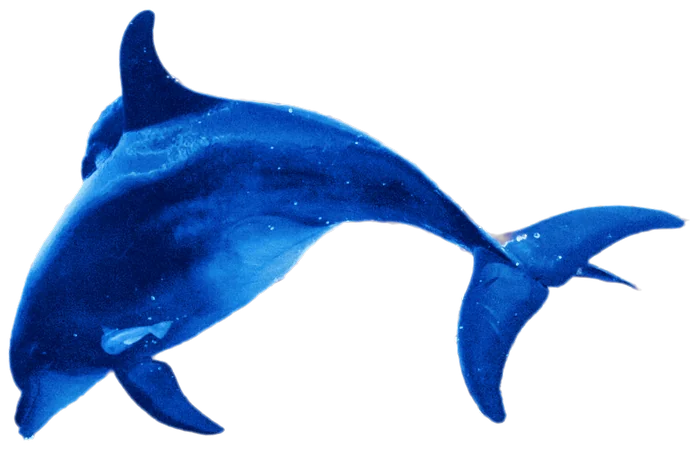
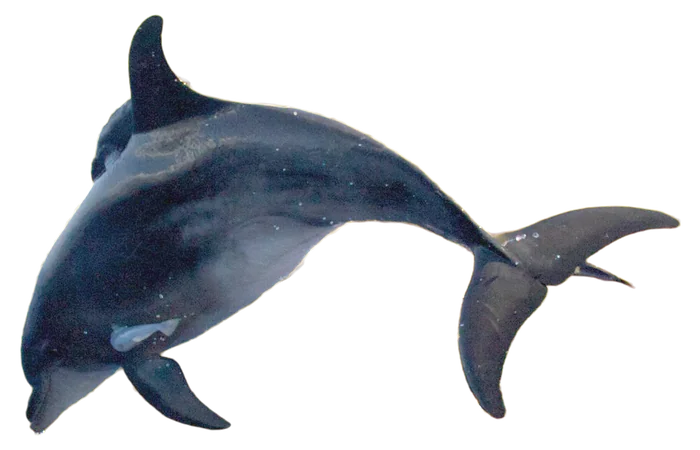
feat: photo monitor with synced water splash, natural dolphin, cleaner scenery
Monitor is a real LCD photo recoloured to the site palette with a landscape
photo on screen; a keyed wave-spray photo erupts from the screen in sync with
the fish, pinned to the left window edge. Dolphin re-cut with natural colour
and pinned right. Removed grass tufts, sand strip, scroll-linked parallax,
mouse parallax and cursor bloom (flicker). Plane enters after the gulls.

diff --git a/bucketer/dashboard/static/aero/v3.html b/bucketer/dashboard/static/aero/v3.html
@@ -1,1 +1,1 @@
-<div class="v3-sky" aria-hidden="true"><i class="v3-shift"></i><div class="v3-rayswrap"><i class="v3-ray" style="--r:14deg;--w:46px;--o:0.34"></i><i class="v3-ray" style="--r:21deg;--w:90px;--o:0.3"></i><i class="v3-ray" style="--r:28deg;--w:36px;--o:0.42"></i><i class="v3-ray" style="--r:34deg;--w:130px;--o:0.26"></i><i class="v3-ray" style="--r:40deg;--w:52px;--o:0.38"></i><i class="v3-ray" style="--r:46deg;--w:100px;--o:0.28"></i><i class="v3-ray" style="--r:52deg;--w:40px;--o:0.34"></i><i class="v3-ray" style="--r:58deg;--w:70px;--o:0.26"></i><i class="v3-ray" style="--r:65deg;--w:34px;--o:0.3"></i><i class="v3-ray" style="--r:72deg;--w:86px;--o:0.2"></i></div><i class="v3-bk" style="--x:59%;--y:75%;--s:76px;--d:54s;--l:-32s;--c:255,244,190"></i><i class="v3-bk" style="--x:25%;--y:69%;--s:76px;--d:37s;--l:-6s;--c:210,255,200"></i><i class="v3-bk" style="--x:40%;--y:22%;--s:26px;--d:60s;--l:-40s;--c:255,255,255"></i><i class="v3-bk" style="--x:78%;--y:54%;--s:76px;--d:36s;--l:-39s;--c:255,255,255"></i><i class="v3-bk" style="--x:69%;--y:12%;--s:26px;--d:28s;--l:-12s;--c:255,244,190"></i><i class="v3-bk" style="--x:78%;--y:7%;--s:76px;--d:46s;--l:-28s;--c:255,244,190"></i><i class="v3-bk" style="--x:68%;--y:33%;--s:150px;--d:44s;--l:-31s;--c:255,255,255"></i><i class="v3-bk" style="--x:86%;--y:14%;--s:76px;--d:43s;--l:-26s;--c:255,255,255"></i><i class="v3-bk" style="--x:92%;--y:36%;--s:54px;--d:40s;--l:-32s;--c:190,240,255"></i><i class="v3-bk" style="--x:5%;--y:12%;--s:110px;--d:32s;--l:-25s;--c:255,255,255"></i><i class="v3-bk" style="--x:39%;--y:53%;--s:26px;--d:27s;--l:0s;--c:255,244,190"></i><i class="v3-bk" style="--x:28%;--y:10%;--s:76px;--d:50s;--l:-25s;--c:210,255,200"></i><i class="v3-bk" style="--x:11%;--y:76%;--s:150px;--d:38s;--l:-17s;--c:190,240,255"></i><i class="v3-bk" style="--x:13%;--y:43%;--s:54px;--d:26s;--l:-26s;--c:255,255,255"></i><i class="v3-bk" style="--x:19%;--y:35%;--s:150px;--d:32s;--l:0s;--c:255,255,255"></i><i class="v3-bk" style="--x:61%;--y:66%;--s:38px;--d:38s;--l:-28s;--c:255,244,190"></i></div><div class="v3-hillfx" aria-hidden="true"><div class="hf mid"><i class="hf-wave"></i><i class="hf-shadow s1"></i></div><div class="hf near"><i class="hf-wave w2"></i><i class="hf-shadow s2"></i></div></div><div class="v3-wx" aria-hidden="true"><div class="wx-reflect"></div><div class="wx-tile"><i></i></div><svg class="wx-wave w1" viewBox="0 0 1440 40" preserveAspectRatio="none"><path d="M0 20C90 6 180 34 270 20S450 6 540 20S720 34 810 20S990 6 1080 20S1260 34 1350 20S1440 14 1440 20L1440 40L0 40Z" fill="rgba(255,255,255,.3)"/></svg><svg class="wx-wave w2" viewBox="0 0 1440 40" preserveAspectRatio="none"><path d="M0 22C120 36 240 8 360 22S600 36 720 22S960 8 1080 22S1320 36 1440 22L1440 40L0 40Z" fill="rgba(140,235,255,.28)"/></svg><i class="wx-spec"></i><i class="wx-sand"></i><i class="wx-ring" style="--x:6%;--d:9s;--l:-1s;--w:90px"></i><i class="wx-ring" style="--x:17%;--d:12s;--l:-6s;--w:60px"></i><i class="wx-ring" style="--x:29%;--d:10s;--l:-3s;--w:120px"></i><i class="wx-ring" style="--x:44%;--d:13s;--l:-8s;--w:70px"></i><i class="wx-ring" style="--x:58%;--d:9s;--l:-5s;--w:100px"></i><i class="wx-ring" style="--x:71%;--d:12s;--l:-2s;--w:64px"></i><i class="wx-ring" style="--x:83%;--d:10s;--l:-7s;--w:110px"></i><i class="wx-ring" style="--x:94%;--d:11s;--l:-4s;--w:80px"></i><i class="wx-gl" style="--x:94%;--y:85px;--s:18px;--d:-2.6s;--t:2.8s"></i><i class="wx-gl" style="--x:54%;--y:106px;--s:10px;--d:-1.1s;--t:4.5s"></i><i class="wx-gl" style="--x:76%;--y:129px;--s:10px;--d:-0.8s;--t:3.4s"></i><i class="wx-gl" style="--x:78%;--y:199px;--s:10px;--d:-0.2s;--t:2.9s"></i><i class="wx-gl" style="--x:57%;--y:118px;--s:10px;--d:-3.1s;--t:3.3s"></i><i class="wx-gl" style="--x:38%;--y:150px;--s:10px;--d:-0.3s;--t:3.0s"></i><i class="wx-gl" style="--x:82%;--y:114px;--s:10px;--d:-2.4s;--t:3.3s"></i><i class="wx-gl" style="--x:59%;--y:84px;--s:22px;--d:-1.9s;--t:3.7s"></i><i class="wx-gl" style="--x:50%;--y:98px;--s:12px;--d:-1.2s;--t:3.1s"></i><i class="wx-gl" style="--x:79%;--y:115px;--s:12px;--d:-0.6s;--t:3.9s"></i><i class="wx-gl" style="--x:71%;--y:102px;--s:18px;--d:-3.5s;--t:3.8s"></i><i class="wx-gl" style="--x:54%;--y:64px;--s:10px;--d:-0.4s;--t:3.6s"></i><i class="wx-gl" style="--x:33%;--y:113px;--s:18px;--d:-1.0s;--t:4.2s"></i><i class="wx-gl" style="--x:77%;--y:177px;--s:14px;--d:-2.1s;--t:4.5s"></i><i class="wx-gl" style="--x:9%;--y:84px;--s:12px;--d:-1.9s;--t:3.9s"></i><i class="wx-gl" style="--x:79%;--y:70px;--s:14px;--d:-0.8s;--t:4.4s"></i><i class="wx-gl" style="--x:96%;--y:56px;--s:10px;--d:-1.1s;--t:3.5s"></i><i class="wx-gl" style="--x:8%;--y:63px;--s:12px;--d:-1.1s;--t:3.7s"></i><i class="wx-gl" style="--x:17%;--y:75px;--s:14px;--d:-0.6s;--t:3.5s"></i><i class="wx-gl" style="--x:43%;--y:185px;--s:22px;--d:-3.8s;--t:3.8s"></i><i class="wx-gl" style="--x:3%;--y:173px;--s:14px;--d:-2.8s;--t:4.5s"></i><i class="wx-gl" style="--x:3%;--y:71px;--s:18px;--d:-0.3s;--t:3.2s"></i><i class="wx-gl" style="--x:18%;--y:70px;--s:10px;--d:-1.8s;--t:3.3s"></i><i class="wx-gl" style="--x:6%;--y:85px;--s:14px;--d:-1.4s;--t:4.0s"></i><i class="wx-gl" style="--x:10%;--y:158px;--s:10px;--d:-3.5s;--t:3.7s"></i><i class="wx-gl" style="--x:80%;--y:149px;--s:18px;--d:-2.3s;--t:3.8s"></i></div><div class="v3-fg" aria-hidden="true"><i class="fg-tuft l"></i><i class="fg-tuft r"></i></div><div class="v3-mon" aria-hidden="true"><svg class="mon-body" viewBox="0 0 360 430" overflow="visible"><defs><linearGradient id="cr-shell" x1="0" y1="0" x2="0" y2="1"><stop offset="0" stop-color="#e8e6dc"/><stop offset=".5" stop-color="#d3d0c4"/><stop offset="1" stop-color="#aeab9d"/></linearGradient><linearGradient id="cr-top" x1="0" y1="0" x2="0" y2="1"><stop offset="0" stop-color="#f7f6ef"/><stop offset="1" stop-color="#cdcabd"/></linearGradient><linearGradient id="cr-inner" x1="0" y1="0" x2="1" y2="1"><stop offset="0" stop-color="#4f4d46"/><stop offset=".5" stop-color="#85837a"/><stop offset="1" stop-color="#c3c0b4"/></linearGradient><linearGradient id="cr-sky" x1="0" y1="0" x2="0" y2="1"><stop offset="0" stop-color="#0a5fc4"/><stop offset=".55" stop-color="#58b6f0"/><stop offset="1" stop-color="#d4f0ff"/></linearGradient><radialGradient id="cr-sun" cx=".2" cy=".16" r=".6"><stop offset="0" stop-color="#fff"/><stop offset=".3" stop-color="#fff6c0" stop-opacity=".7"/><stop offset="1" stop-color="#fff" stop-opacity="0"/></radialGradient><radialGradient id="cr-vig" cx=".5" cy=".5" r=".78"><stop offset=".55" stop-color="#001030" stop-opacity="0"/><stop offset="1" stop-color="#001030" stop-opacity=".6"/></radialGradient><linearGradient id="cr-glare" x1="0" y1="0" x2="1" y2="1"><stop offset="0" stop-color="#fff" stop-opacity=".6"/><stop offset=".5" stop-color="#fff" stop-opacity=".06"/><stop offset="1" stop-color="#fff" stop-opacity="0"/></linearGradient><linearGradient id="cr-ped" x1="0" y1="0" x2="0" y2="1"><stop offset="0" stop-color="#d6d3c7"/><stop offset="1" stop-color="#8f8c80"/></linearGradient><linearGradient id="cr-neck" x1="0" y1="0" x2="1" y2="0"><stop offset="0" stop-color="#8a877b"/><stop offset=".4" stop-color="#d9d6ca"/><stop offset="1" stop-color="#7c796d"/></linearGradient><radialGradient id="cr-btn" cx=".4" cy=".3" r=".8"><stop offset="0" stop-color="#f6f5ee"/><stop offset="1" stop-color="#a7a497"/></radialGradient><pattern id="cr-scan" width="4" height="3" patternUnits="userSpaceOnUse"><rect width="4" height="1" fill="#000" opacity=".1"/></pattern><filter id="cr-bevel" x="-4%" y="-4%" width="108%" height="108%"><feGaussianBlur in="SourceAlpha" stdDeviation="3.5" result="b"/><feSpecularLighting in="b" surfaceScale="5" specularConstant=".8" specularExponent="24" lighting-color="#fff" result="s"><feDistantLight azimuth="235" elevation="52"/></feSpecularLighting><feComposite in="s" in2="SourceAlpha" operator="in" result="s2"/><feComposite in="SourceGraphic" in2="s2" operator="arithmetic" k1="0" k2="1" k3=".85" k4="0"/></filter><filter id="cr-grain" x="0" y="0" width="100%" height="100%"><feTurbulence type="fractalNoise" baseFrequency=".85" numOctaves="2" seed="5"/><feColorMatrix values="0 0 0 0 0  0 0 0 0 0  0 0 0 0 0  0 0 0 .09 0"/></filter><filter id="cr-blur"><feGaussianBlur stdDeviation="3"/></filter><clipPath id="cr-scr"><rect x="50" y="80" width="260" height="200" rx="28"/></clipPath></defs><ellipse cx="180" cy="424" rx="150" ry="13" fill="#032f5c" opacity=".3" filter="url(#cr-blur)"/><path d="M154 330h52l12 66h-76z" fill="url(#cr-neck)" stroke="#6d6a5e" stroke-width="1"/><ellipse cx="180" cy="408" rx="112" ry="16" fill="#6d6a5e"/><ellipse cx="180" cy="403" rx="112" ry="15" fill="url(#cr-ped)" stroke="#6d6a5e"/><ellipse cx="180" cy="399" rx="86" ry="8" fill="#fff" opacity=".45"/><path d="M58 26h244c14 0 26 10 32 24l12 14H14l12-14c6-14 18-24 32-24z" fill="url(#cr-top)" stroke="#8f8c80" stroke-width="1.2"/><g stroke="#7b786c" stroke-width="2.4" stroke-linecap="round" opacity=".55"><path d="M110 40h40M160 40h40M210 40h40"/><path d="M100 50h60M170 50h60M240 50h20"/></g><rect x="14" y="62" width="332" height="270" rx="26" fill="url(#cr-shell)" stroke="#8f8c80" stroke-width="1.4" filter="url(#cr-bevel)"/><rect x="14" y="62" width="332" height="270" rx="26" fill="#000" filter="url(#cr-grain)"/><path d="M20 64h320" stroke="#fff" stroke-opacity=".8" stroke-width="1.6"/><rect x="36" y="70" width="288" height="224" rx="36" fill="url(#cr-inner)" stroke="#4a483f" stroke-width="1.2"/><rect x="38.5" y="72.5" width="283" height="219" rx="34" fill="none" stroke="#fff" stroke-opacity=".25" stroke-width="1"/><g clip-path="url(#cr-scr)"><rect x="50" y="80" width="260" height="200" fill="url(#cr-sky)"/><rect x="50" y="80" width="260" height="200" fill="url(#cr-sun)"/><g fill="#fff" opacity=".85" filter="url(#cr-blur)"><ellipse cx="230" cy="130" rx="52" ry="14"/><ellipse cx="258" cy="122" rx="30" ry="12"/><ellipse cx="120" cy="108" rx="40" ry="10"/></g><path d="M50 236C100 196 170 214 230 192C262 180 292 190 310 198V280H50z" fill="#4cc31c"/><path d="M50 258C110 228 190 244 250 226C280 218 298 224 310 228V280H50z" fill="#2b9a12"/><path d="M50 236C100 196 170 214 230 192C262 180 292 190 310 198" fill="none" stroke="#d8ff8a" stroke-width="1.6" opacity=".8"/><rect x="50" y="80" width="260" height="200" fill="url(#cr-scan)"/><rect x="50" y="80" width="260" height="200" fill="url(#cr-vig)"/><path d="M56 90C100 82 170 84 200 86C150 110 100 150 56 200z" fill="url(#cr-glare)"/></g><rect x="50" y="80" width="260" height="200" rx="28" fill="none" stroke="#0a1b33" stroke-opacity=".7" stroke-width="2"/><g stroke="#6a675b" stroke-width="2" stroke-linecap="round" opacity=".7"><path d="M52 306h30M52 312h30M52 318h30"/></g><g><rect x="156" y="304" width="22" height="9" rx="4.5" fill="url(#cr-btn)" stroke="#7b786c" stroke-width=".8"/><rect x="184" y="304" width="22" height="9" rx="4.5" fill="url(#cr-btn)" stroke="#7b786c" stroke-width=".8"/><rect x="212" y="304" width="22" height="9" rx="4.5" fill="url(#cr-btn)" stroke="#7b786c" stroke-width=".8"/><rect x="240" y="304" width="22" height="9" rx="4.5" fill="url(#cr-btn)" stroke="#7b786c" stroke-width=".8"/></g><circle cx="296" cy="309" r="9" fill="url(#cr-btn)" stroke="#6a675b" stroke-width="1"/><circle cx="296" cy="309" r="4.5" fill="none" stroke="#55524a" stroke-width="1.2"/><path d="M296 303v5" stroke="#55524a" stroke-width="1.2"/><circle cx="276" cy="309" r="3" fill="#44e04a" stroke="#1a6a1c" stroke-width=".7"/><circle cx="275.2" cy="308.2" r="1" fill="#fff"/><ellipse cx="108" cy="309" rx="22" ry="4.5" fill="none" stroke="#8f8c80" stroke-width="1"/></svg><i class="mon-splash"></i><i class="mon-fish"><b class="aero-img aero-gold"></b></i><i class="mon-drops"></i><i class="mon-drops b"></i><i class="mon-lip"></i></div>
+<div class="v3-sky" aria-hidden="true"><div class="v3-rayswrap"><i class="v3-ray" style="--r:14deg;--w:46px;--o:0.34"></i><i class="v3-ray" style="--r:21deg;--w:90px;--o:0.3"></i><i class="v3-ray" style="--r:28deg;--w:36px;--o:0.42"></i><i class="v3-ray" style="--r:34deg;--w:130px;--o:0.26"></i><i class="v3-ray" style="--r:40deg;--w:52px;--o:0.38"></i><i class="v3-ray" style="--r:46deg;--w:100px;--o:0.28"></i><i class="v3-ray" style="--r:52deg;--w:40px;--o:0.34"></i><i class="v3-ray" style="--r:58deg;--w:70px;--o:0.26"></i><i class="v3-ray" style="--r:65deg;--w:34px;--o:0.3"></i><i class="v3-ray" style="--r:72deg;--w:86px;--o:0.2"></i></div><i class="v3-bk" style="--x:59%;--y:75%;--s:76px;--d:54s;--l:-32s;--c:255,244,190"></i><i class="v3-bk" style="--x:25%;--y:69%;--s:76px;--d:37s;--l:-6s;--c:210,255,200"></i><i class="v3-bk" style="--x:40%;--y:22%;--s:26px;--d:60s;--l:-40s;--c:255,255,255"></i><i class="v3-bk" style="--x:78%;--y:54%;--s:76px;--d:36s;--l:-39s;--c:255,255,255"></i><i class="v3-bk" style="--x:69%;--y:12%;--s:26px;--d:28s;--l:-12s;--c:255,244,190"></i><i class="v3-bk" style="--x:78%;--y:7%;--s:76px;--d:46s;--l:-28s;--c:255,244,190"></i><i class="v3-bk" style="--x:68%;--y:33%;--s:150px;--d:44s;--l:-31s;--c:255,255,255"></i><i class="v3-bk" style="--x:86%;--y:14%;--s:76px;--d:43s;--l:-26s;--c:255,255,255"></i><i class="v3-bk" style="--x:92%;--y:36%;--s:54px;--d:40s;--l:-32s;--c:190,240,255"></i><i class="v3-bk" style="--x:5%;--y:12%;--s:110px;--d:32s;--l:-25s;--c:255,255,255"></i><i class="v3-bk" style="--x:39%;--y:53%;--s:26px;--d:27s;--l:0s;--c:255,244,190"></i><i class="v3-bk" style="--x:28%;--y:10%;--s:76px;--d:50s;--l:-25s;--c:210,255,200"></i><i class="v3-bk" style="--x:11%;--y:76%;--s:150px;--d:38s;--l:-17s;--c:190,240,255"></i><i class="v3-bk" style="--x:13%;--y:43%;--s:54px;--d:26s;--l:-26s;--c:255,255,255"></i><i class="v3-bk" style="--x:19%;--y:35%;--s:150px;--d:32s;--l:0s;--c:255,255,255"></i><i class="v3-bk" style="--x:61%;--y:66%;--s:38px;--d:38s;--l:-28s;--c:255,244,190"></i></div><div class="v3-hillfx" aria-hidden="true"><div class="hf mid"><i class="hf-wave"></i><i class="hf-shadow s1"></i></div><div class="hf near"><i class="hf-wave w2"></i><i class="hf-shadow s2"></i></div></div><div class="v3-wx" aria-hidden="true"><div class="wx-reflect"></div><div class="wx-tile"><i></i></div><svg class="wx-wave w1" viewBox="0 0 1440 40" preserveAspectRatio="none"><path d="M0 20C90 6 180 34 270 20S450 6 540 20S720 34 810 20S990 6 1080 20S1260 34 1350 20S1440 14 1440 20L1440 40L0 40Z" fill="rgba(255,255,255,.3)"/></svg><svg class="wx-wave w2" viewBox="0 0 1440 40" preserveAspectRatio="none"><path d="M0 22C120 36 240 8 360 22S600 36 720 22S960 8 1080 22S1320 36 1440 22L1440 40L0 40Z" fill="rgba(140,235,255,.28)"/></svg><i class="wx-spec"></i><i class="wx-ring" style="--x:6%;--d:9s;--l:-1s;--w:90px"></i><i class="wx-ring" style="--x:17%;--d:12s;--l:-6s;--w:60px"></i><i class="wx-ring" style="--x:29%;--d:10s;--l:-3s;--w:120px"></i><i class="wx-ring" style="--x:44%;--d:13s;--l:-8s;--w:70px"></i><i class="wx-ring" style="--x:58%;--d:9s;--l:-5s;--w:100px"></i><i class="wx-ring" style="--x:71%;--d:12s;--l:-2s;--w:64px"></i><i class="wx-ring" style="--x:83%;--d:10s;--l:-7s;--w:110px"></i><i class="wx-ring" style="--x:94%;--d:11s;--l:-4s;--w:80px"></i><i class="wx-gl" style="--x:94%;--y:85px;--s:18px;--d:-2.6s;--t:2.8s"></i><i class="wx-gl" style="--x:54%;--y:106px;--s:10px;--d:-1.1s;--t:4.5s"></i><i class="wx-gl" style="--x:76%;--y:129px;--s:10px;--d:-0.8s;--t:3.4s"></i><i class="wx-gl" style="--x:78%;--y:199px;--s:10px;--d:-0.2s;--t:2.9s"></i><i class="wx-gl" style="--x:57%;--y:118px;--s:10px;--d:-3.1s;--t:3.3s"></i><i class="wx-gl" style="--x:38%;--y:150px;--s:10px;--d:-0.3s;--t:3.0s"></i><i class="wx-gl" style="--x:82%;--y:114px;--s:10px;--d:-2.4s;--t:3.3s"></i><i class="wx-gl" style="--x:59%;--y:84px;--s:22px;--d:-1.9s;--t:3.7s"></i><i class="wx-gl" style="--x:50%;--y:98px;--s:12px;--d:-1.2s;--t:3.1s"></i><i class="wx-gl" style="--x:79%;--y:115px;--s:12px;--d:-0.6s;--t:3.9s"></i><i class="wx-gl" style="--x:71%;--y:102px;--s:18px;--d:-3.5s;--t:3.8s"></i><i class="wx-gl" style="--x:54%;--y:64px;--s:10px;--d:-0.4s;--t:3.6s"></i><i class="wx-gl" style="--x:33%;--y:113px;--s:18px;--d:-1.0s;--t:4.2s"></i><i class="wx-gl" style="--x:77%;--y:177px;--s:14px;--d:-2.1s;--t:4.5s"></i><i class="wx-gl" style="--x:9%;--y:84px;--s:12px;--d:-1.9s;--t:3.9s"></i><i class="wx-gl" style="--x:79%;--y:70px;--s:14px;--d:-0.8s;--t:4.4s"></i><i class="wx-gl" style="--x:96%;--y:56px;--s:10px;--d:-1.1s;--t:3.5s"></i><i class="wx-gl" style="--x:8%;--y:63px;--s:12px;--d:-1.1s;--t:3.7s"></i><i class="wx-gl" style="--x:17%;--y:75px;--s:14px;--d:-0.6s;--t:3.5s"></i><i class="wx-gl" style="--x:43%;--y:185px;--s:22px;--d:-3.8s;--t:3.8s"></i><i class="wx-gl" style="--x:3%;--y:173px;--s:14px;--d:-2.8s;--t:4.5s"></i><i class="wx-gl" style="--x:3%;--y:71px;--s:18px;--d:-0.3s;--t:3.2s"></i><i class="wx-gl" style="--x:18%;--y:70px;--s:10px;--d:-1.8s;--t:3.3s"></i><i class="wx-gl" style="--x:6%;--y:85px;--s:14px;--d:-1.4s;--t:4.0s"></i><i class="wx-gl" style="--x:10%;--y:158px;--s:10px;--d:-3.5s;--t:3.7s"></i><i class="wx-gl" style="--x:80%;--y:149px;--s:18px;--d:-2.3s;--t:3.8s"></i></div><div class="v3-mon" aria-hidden="true"><i class="mon-img"></i><i class="mon-fish"><b class="aero-img aero-gold"></b></i><i class="mon-water"></i></div>

diff --git a/bucketer/dashboard/static/aero/v3.css b/bucketer/dashboard/static/aero/v3.css
@@ -1,15 +1,14 @@
-/* lane: v3 (loaded last). Owns the audit pass: one sky gradient, soft rolling rays, pastel flares, bokeh, continuous cloud/plane drift, scroll sky shift,
+/* lane: v3 (loaded last). Owns the audit pass: one sky gradient, soft rolling rays, pastel flares, bokeh, continuous cloud/plane drift,
    living hills (sway, light wave, cloud shadows), hill reflection + wave layers + seabed in the water, thin-film bubbles, foreground tufts/fronds,
    the monitor with water splashing out of its screen, and the single glass recipe + Aero chrome for panels, controls, tables and charts. */
 :root{--cyan:#00b4e6;--cobalt:#0a6fd0;--lime:#49c61c;--sun:#ffd93a;--ink:#0a2a4a;--fg:#0a2a4a;--muted:#1b4268;
 --glass-blur:blur(16px) saturate(1.4) brightness(1.1);--glass-tint:rgba(236,248,255,.46);--aero-grade:saturate(1.1) contrast(1.04)}
 html{background:linear-gradient(165deg,#1a5fc4 0,#3b93e6 24%,#7cc4f2 50%,#bfe5f8 76%,#dff4fc 100%) fixed}
 
-/* ===== sky: rays, bokeh, scroll shift ===== */
-.v3-sky,.v3-hillfx,.v3-wx,.v3-fg,.v3-mon{position:fixed;pointer-events:none}
+/* ===== sky: rays, bokeh ===== */
+.v3-sky,.v3-hillfx,.v3-wx,.v3-mon{position:fixed;pointer-events:none}
 .v3-sky{inset:0;z-index:0;overflow:hidden}
 .v3-sky i,.v3-sky div{position:absolute;display:block;font-style:normal}
-.v3-shift{inset:0;opacity:0;background:linear-gradient(180deg,rgba(8,70,170,0) 0,rgba(8,70,170,.4) 100%)}
 .v3-rayswrap{left:6vw;top:4vh;width:0;height:0;animation:v3-raysway 46s ease-in-out infinite alternate;mix-blend-mode:screen}
 .v3-ray{left:0;top:0;width:150vmax;height:var(--w);margin-top:calc(var(--w) / -2);transform-origin:0 50%;rotate:var(--r);opacity:var(--o);filter:blur(7px);clip-path:polygon(0 42%,100% 0,100% 100%,0 58%);background:linear-gradient(90deg,rgba(255,248,205,.85),rgba(255,246,190,.22) 42%,transparent 78%)}
 @keyframes v3-raysway{from{rotate:-3deg}to{rotate:3deg}}
@@ -30,8 +29,8 @@ html{background:linear-gradient(165deg,#1a5fc4 0,#3b93e6 24%,#7cc4f2 50%,#bfe5f8
 .as-cl.cl3{filter:blur(.8px)}.as-cl.cl2a{filter:blur(1.2px)}
 
 /* ===== plane: big, climbing and growing as it passes, soft contrail, behind the near clouds ===== */
-.aero-sky .as-plane-a{top:3vh;width:clamp(260px,22vw,420px);animation:v3-plane-x 110s linear -14s infinite}
-.aero-sky .as-plane-b{animation:v3-plane-y 110s ease-in-out -14s infinite}
+.aero-sky .as-plane-a{top:3vh;width:clamp(260px,22vw,420px);animation:v3-plane-x 150s linear 35s infinite backwards}
+.aero-sky .as-plane-b{animation:v3-plane-y 150s ease-in-out 35s infinite backwards}
 .aero-sky .as-plane{animation:v3-bank 7s ease-in-out infinite alternate}
 .aero-sky .as-plane::after{content:"";position:absolute;left:34%;top:30%;width:22px;height:22px;translate:-50% -50%;background:#fff;clip-path:polygon(50% 0,56% 44%,100% 50%,56% 56%,50% 100%,44% 56%,0 50%,44% 44%);filter:drop-shadow(0 0 5px #fff);animation:as-twinkle 3.2s ease-in-out infinite}
 .aero-sky .as-trail{width:min(62vw,900px);height:7px;opacity:.85}
@@ -50,11 +49,6 @@ html{background:linear-gradient(165deg,#1a5fc4 0,#3b93e6 24%,#7cc4f2 50%,#bfe5f8
 /* haze only touches the very base so the towers stay solid and clearly visible */
 .hs-skyline::after{background:linear-gradient(0deg,rgba(205,238,252,.32),rgba(205,238,252,.08) 22%,rgba(205,238,252,0) 40%)}
 .hs-skyline::before{content:"";position:absolute;left:-2%;right:-2%;bottom:-2px;height:7%;z-index:1;background:radial-gradient(circle at 50% 100%,#2c9a26 0 58%,transparent 60%) 0 100%/31px 100% repeat-x,radial-gradient(circle at 50% 100%,#1f7e1e 0 56%,transparent 58%) 15px 100%/37px 78% repeat-x}
-.hs-sk{transform:translate(calc(var(--mx,0) * -6px),calc(var(--my,0) * -3px))}
-.hs-far{transform:translate(calc(var(--mx,0) * -4px),calc(var(--my,0) * -2px))}
-.hs-mid{transform:translate(calc(var(--mx,0) * -9px),calc(var(--my,0) * -4px))}
-.hs-near{transform:translate(calc(var(--mx,0) * -16px),calc(var(--my,0) * -6px))}
-.as-parfar{transform:translate(calc(var(--mx,0) * -3px),0)}.as-parnear{transform:translate(calc(var(--mx,0) * -7px),0)}
 .hs-globe{width:clamp(230px,19vw,360px);top:9vh}
 .hs-globe::before{content:"";position:absolute;inset:-9%;border-radius:50%;background:radial-gradient(circle,transparent 56%,rgba(130,225,255,.5) 66%,rgba(130,225,255,.12) 74%,transparent 80%)}
 .hs-gloss{background:radial-gradient(ellipse 42% 22% at 34% 16%,rgba(255,255,255,.9),rgba(255,255,255,0) 100%),radial-gradient(ellipse 60% 30% at 52% 96%,rgba(150,240,255,.55),transparent 70%),radial-gradient(circle,transparent 58%,rgba(160,230,255,.3) 86%,rgba(255,255,255,.65) 100%)}
@@ -82,7 +76,6 @@ html{background:linear-gradient(165deg,#1a5fc4 0,#3b93e6 24%,#7cc4f2 50%,#bfe5f8
 .wx-wave.w2{top:30px;animation:v3-wavex 24s linear infinite reverse}
 @keyframes v3-wavex{to{translate:-45% 0}}
 .wx-spec{left:0;right:0;top:32px;height:5px;background:linear-gradient(90deg,transparent,rgba(255,255,255,.95) 18%,rgba(255,255,255,.55) 50%,rgba(255,255,255,.95) 82%,transparent);filter:blur(.8px) drop-shadow(0 0 5px #fff)}
-.wx-sand{left:0;right:0;bottom:var(--dock);height:56px;background:radial-gradient(circle at 12% 70%,rgba(255,244,220,.75) 0 2px,transparent 3px) 0 0/73px 30px,radial-gradient(circle at 60% 40%,rgba(120,90,50,.45) 0 2.5px,transparent 3.5px) 0 0/97px 36px,linear-gradient(0deg,rgba(234,208,150,.82),rgba(214,190,130,.5) 55%,transparent);-webkit-mask-image:linear-gradient(0deg,#000 40%,transparent);mask-image:linear-gradient(0deg,#000 40%,transparent)}
 .wx-ring{left:var(--x);top:30px;width:var(--w);height:calc(var(--w) * .22);translate:-50% 0;border-radius:50%;border:2px solid rgba(255,255,255,.85);opacity:0;animation:v3-ring var(--d) ease-out var(--l) infinite}
 @keyframes v3-ring{0%{scale:.1;opacity:0}12%{opacity:.85}100%{scale:1.7;opacity:0}}
 .wx-gl{left:var(--x);top:calc(30px + var(--y));width:var(--s);height:var(--s);translate:-50% -50%;background:#fff;clip-path:polygon(50% 0,56% 44%,100% 50%,56% 56%,50% 100%,44% 56%,0 50%,44% 44%);filter:drop-shadow(0 0 4px #fff);opacity:.3;animation:as-twinkle var(--t) ease-in-out var(--d) infinite}
@@ -97,31 +90,17 @@ html{background:linear-gradient(165deg,#1a5fc4 0,#3b93e6 24%,#7cc4f2 50%,#bfe5f8
 .aero-bub.irid::before{opacity:.85}
 .aero-bub.xl{filter:blur(1.2px)}
 
-/* ===== foreground framing: grass tufts at the banks ===== */
-.v3-fg{inset:0;z-index:9;overflow:hidden}
-.v3-fg .fg-tuft{position:absolute;display:block;background-repeat:no-repeat;background-position:center bottom;background-size:contain}
-.fg-tuft{bottom:calc(var(--aw-h) - 52px);width:clamp(240px,22vw,420px);aspect-ratio:900/500;background-image:url(img/aero_grass_tuft.webp);transform-origin:50% 100%;animation:v3-tuft 5s ease-in-out infinite alternate}
-.fg-tuft.l{left:-40px}.fg-tuft.r{right:-60px;scale:-1 1;animation-delay:-2.2s}
-@keyframes v3-tuft{from{transform:skewX(-1.8deg)}to{transform:skewX(1.8deg)}}
 
-/* ===== early-2000s CRT with water erupting out of its screen (splash sprites sit over the glass, the betta swims inside the water) ===== */
-.v3-mon{left:max(6px,calc(50% - 790px));bottom:calc(var(--aw-h) - 46px);width:clamp(230px,17vw,300px);aspect-ratio:360/430;z-index:9;filter:drop-shadow(0 12px 14px rgba(0,50,100,.35));--i-splash:url(img/aero_splash.webp);--i-lip:url(img/aero_splash_lip.webp);--i-sdrops:url(img/aero_splash_drops.webp)}
-.v3-mon .mon-body{position:absolute;inset:0;width:100%;height:100%;display:block}
+/* ===== monitor: a real photo of an LCD (Dell, public domain) recoloured to the site's blue palette, with a real landscape photo (greens pushed to lime) warped onto its screen, and a real wave-spray photo keyed to white water erupting from the screen centre; the betta swims between the two layers ===== */
+.v3-mon{--mw:clamp(340px,26vw,460px);left:calc(var(--mw) * -.14);bottom:calc(var(--aw-h) - 40px);width:var(--mw);aspect-ratio:780/795;z-index:9;filter:drop-shadow(0 14px 14px rgba(0,50,100,.35));--i-mon:url(img/aero_monitor.webp);--i-monw:url(img/aero_monitor_water.webp)}
 .v3-mon i{position:absolute;display:block;font-style:normal;background-repeat:no-repeat}
-.mon-splash{left:-9%;width:118%;bottom:44%;aspect-ratio:900/1000;background:var(--i-splash) center bottom/100% 100%;transform-origin:50% 100%;filter:drop-shadow(0 0 1.2px rgba(0,120,200,.9)) drop-shadow(0 2px 3px rgba(0,90,160,.3)) saturate(1.15) brightness(1.06);animation:mon-pulse 3.6s ease-in-out infinite alternate}
-/* water body: cyan tint masked by the sprite's own alpha, so the thin translucent sheets read as a coloured liquid and the splash stays solid against a bright sky */
-.mon-splash::before,.mon-lip::before{content:"";position:absolute;inset:0;background:linear-gradient(180deg,rgba(190,246,255,.4),rgba(40,190,240,.42));-webkit-mask:var(--i-splash) center bottom/100% 100% no-repeat;mask:var(--i-splash) center bottom/100% 100% no-repeat}
-.mon-lip::before{-webkit-mask-image:var(--i-lip);mask-image:var(--i-lip);-webkit-mask-position:center top;mask-position:center top;background:linear-gradient(180deg,rgba(200,248,255,.35),rgba(40,185,240,.45))}
-@keyframes mon-pulse{from{transform:scale(.98,.95) skewX(-.8deg)}to{transform:scale(1.02,1.04) skewX(.8deg)}}
-.mon-lip{left:-6%;width:112%;top:63%;aspect-ratio:900/260;background:var(--i-lip) center top/100% 100%;filter:drop-shadow(0 0 1.2px rgba(0,120,200,.9)) drop-shadow(0 3px 3px rgba(0,90,160,.35)) saturate(1.1);-webkit-mask-image:linear-gradient(180deg,transparent 0,#000 34%);mask-image:linear-gradient(180deg,transparent 0,#000 34%);animation:mon-lip 4.4s ease-in-out infinite alternate}
-@keyframes mon-lip{from{transform:translateY(0) scaleY(1)}to{transform:translateY(2px) scaleY(1.04)}}
-.mon-drops{filter:drop-shadow(0 0 1px rgba(0,95,180,.9)) saturate(1.5);left:-14%;width:128%;bottom:46%;aspect-ratio:1;background:var(--i-sdrops) center/100% 100%;opacity:0;animation:mon-spray 3.2s ease-in infinite}
-.mon-drops.b{animation-delay:-1.6s;scale:-1 1;width:112%;left:-6%}
-@keyframes mon-spray{0%{transform:translateY(34%) scale(.82);opacity:0}18%{opacity:.95}55%{transform:translateY(-4%) scale(1)}100%{transform:translateY(22%) scale(1.04);opacity:0}}
-.mon-fish{left:36%;width:34%;aspect-ratio:700/521;bottom:50%;animation:mon-fish 9s ease-in-out infinite}
-.mon-fish .aero-img{filter:saturate(1.6) brightness(1.3) contrast(1.05) drop-shadow(0 0 3px rgba(190,245,255,.9));animation:mon-wag .45s ease-in-out infinite alternate;transform-origin:70% 50%}
+.mon-img{inset:0;background:var(--i-mon) center/100% 100%}
+.mon-water{inset:0;background:var(--i-monw) center/100% 100%;transform-origin:43% 78%;opacity:0;animation:mon-water 9s ease-in-out infinite}
+@keyframes mon-water{0%,21%{opacity:0;transform:scale(.5,.3)}33%{opacity:1;transform:scale(1.03,1.03)}70%{opacity:1;transform:scale(1,1)}88%,100%{opacity:0;transform:scale(.9,.75)}}
+.mon-fish{left:34%;width:19%;aspect-ratio:700/521;bottom:27%;animation:mon-fish 9s ease-in-out infinite}
+.mon-fish .aero-img{filter:saturate(1.5) brightness(1.2) drop-shadow(0 0 3px rgba(190,245,255,.9));animation:mon-wag .45s ease-in-out infinite alternate;transform-origin:70% 50%}
 @keyframes mon-wag{from{transform:skewX(-9deg)}to{transform:skewX(9deg)}}
-@keyframes mon-fish{0%{translate:-20% 60%;rotate:35deg;opacity:0;scale:.6}12%{opacity:1}34%{translate:-8% -90%;rotate:-22deg;scale:1}55%{translate:40% -150%;rotate:6deg}78%{translate:94% -70%;rotate:46deg}100%{translate:118% 50%;rotate:72deg;opacity:0;scale:.7}}
+@keyframes mon-fish{0%,21%{translate:-30% 130%;rotate:30deg;opacity:0;scale:.6}27%{opacity:1;translate:-20% 70%}40%{translate:10% -50%;rotate:-25deg;scale:1}56%{translate:70% -250%;rotate:8deg}74%{translate:140% -150%;rotate:50deg}86%{translate:180% 70%;rotate:75deg;opacity:1;scale:.8}91%,100%{translate:180% 70%;rotate:75deg;opacity:0;scale:.7}}
 
 /* ===== one glass recipe, legible text, hover glint, dew beads, window chrome ===== */
 .stat,.card,.drill,.decs,.simrec,.note,#detail,#covbars,#tags{
@@ -162,18 +141,12 @@ tbody tr:nth-child(even):not(.adetail){background:rgba(255,255,255,.2)}
 .sndbtn[aria-pressed=false]::after{content:"";position:absolute;left:9px;right:9px;top:50%;height:2px;margin-top:-1px;background:#c02a14;rotate:-45deg;border-radius:2px}
 .sndbtn[aria-pressed=true]{background:linear-gradient(to bottom,#9fe0ff 0,#1c97e8 50%,#0361A3 50%,#2ab4f8 100%);border-color:#024b7f}
 .sndbtn[aria-pressed=true]::before{background:#fff}
-.v3-bloom{position:fixed;left:0;top:0;z-index:12;width:340px;height:340px;margin:-170px 0 0 -170px;border-radius:50%;pointer-events:none;mix-blend-mode:soft-light;background:radial-gradient(circle,rgba(255,255,255,.7),transparent 66%);opacity:0;transition:opacity .4s}
 
 @media (prefers-reduced-motion:no-preference){
 .as-aurora.a1{animation-name:v3-aur1}.as-aurora.a2{animation-name:v3-aur2}
 @keyframes v3-aur1{from{opacity:.3;translate:-4vw 0}to{opacity:.08;translate:4vw 2vh}}
 @keyframes v3-aur2{from{opacity:.05}to{opacity:.26}}
-@supports (animation-timeline:scroll()){
-.v3-shift{animation:v3-shift linear both;animation-timeline:scroll(root)}
-@keyframes v3-shift{to{opacity:1}}
-.as-sun{animation:v3-sunlow linear both;animation-timeline:scroll(root)}
-@keyframes v3-sunlow{to{translate:0 7vh;filter:hue-rotate(-14deg) saturate(1.2)}}
-}}
-@media (prefers-reduced-motion:reduce){.v3-sky *,.v3-hillfx *,.v3-wx *,.v3-fg *,.v3-mon *{animation:none!important}.aero-sky .as-cl{left:auto}.aero-sky .as-cl.cl1{left:-9vw}.aero-sky .as-cl.cl2a{left:40vw}.aero-sky .as-cl.cl2b{left:63vw}.aero-sky .as-cl.cl3{left:-4vw}.aero-sky .as-cl.cl4{right:-6vw}.v3-bloom{display:none}.wx-gl{opacity:.8}}
-@media (prefers-contrast:more),(forced-colors:active){.v3-sky,.v3-hillfx,.v3-wx,.v3-fg,.v3-mon,.v3-bloom{display:none}}
+}
+@media (prefers-reduced-motion:reduce){.v3-sky *,.v3-hillfx *,.v3-wx *,.v3-mon *{animation:none!important}.mon-water{opacity:1}.aero-sky .as-cl{left:auto}.aero-sky .as-cl.cl1{left:-9vw}.aero-sky .as-cl.cl2a{left:40vw}.aero-sky .as-cl.cl2b{left:63vw}.aero-sky .as-cl.cl3{left:-4vw}.aero-sky .as-cl.cl4{right:-6vw}.wx-gl{opacity:.8}}
+@media (prefers-contrast:more),(forced-colors:active){.v3-sky,.v3-hillfx,.v3-wx,.v3-mon{display:none}
 @media (prefers-reduced-transparency:reduce){.stat,.card,.drill,.decs,.simrec,.note,#detail,#covbars,#tags{-webkit-backdrop-filter:none!important;backdrop-filter:none!important;background-color:#e9f6ff!important}}

diff --git a/bucketer/dashboard/static/aero/animals.css b/bucketer/dashboard/static/aero/animals.css
@@ -5,7 +5,8 @@
 .aero-animals-front i,.aero-animals-front b{display:block;font-style:normal}
 .aero-img{display:block;width:100%;height:100%;background-repeat:no-repeat;background-position:center;background-size:contain}
 .aero-dol{background-image:var(--ai-dol)}.aero-clown{background-image:var(--ai-clown)}.aero-idol{background-image:var(--ai-idol)}.aero-gold{background-image:var(--ai-gold)}
-.aero-big .aero-img,.aero-dolphin .aero-img,.aero-gold{filter:saturate(1.35) contrast(1.06) drop-shadow(0 0 1.5px #fff) drop-shadow(0 7px 6px rgba(4,60,120,.4))}
+.aero-dolphin .aero-img{filter:saturate(1.05) contrast(1.04) drop-shadow(0 0 1.5px #fff) drop-shadow(0 7px 6px rgba(4,60,120,.4))}
+.aero-big .aero-img,.aero-gold{filter:saturate(1.35) contrast(1.06) drop-shadow(0 0 1.5px #fff) drop-shadow(0 7px 6px rgba(4,60,120,.4))}
 /* underwater swimmers get a cyan caustic cast and a soft contact shadow on the seabed */
 .aero-big .aero-img{filter:saturate(1.35) contrast(1.05) drop-shadow(0 0 7px rgba(0,230,255,.55)) drop-shadow(0 5px 5px rgba(0,50,110,.35))}
 
@@ -29,7 +30,7 @@
 
 
 /* leaping dolphins at the crest line, splash crown at exit and entry */
-.aero-leap{position:absolute;right:-10px;bottom:calc(var(--aw-h) - 34px);width:calc(var(--dw)*1.5);height:0}
+.aero-leap{position:absolute;right:-24px;bottom:calc(var(--aw-h) - 34px);width:calc(var(--dw)*1.5);height:0}
 .aero-leap{--dw:clamp(190px,calc((100vw - 1100px) / 2 + 70px),320px)}
 .aero-leapclip{pointer-events:none;position:absolute;left:0;right:0;bottom:0;height:calc(var(--dw)*2);overflow:hidden}
 .aero-dolphin{position:absolute;right:0;bottom:0;width:var(--dw);aspect-ratio:700/450;translate:0 0;animation:aero-leap-x 12s linear var(--off,0s) infinite}
@@ -52,7 +53,7 @@
 @keyframes aero-swim-l{from{translate:calc(100vw + 40px) 0}to{translate:-300px 0}}
 @keyframes aero-bob{from{transform:translateY(-10px) rotate(-3deg)}to{transform:translateY(12px) rotate(3deg)}}
 @keyframes aero-wag{from{transform:skewY(-5deg) rotate(-1.5deg)}to{transform:skewY(5deg) rotate(1.5deg)}}
-@keyframes aero-leap-x{0%,5%{translate:0 0}49%,100%{translate:-45% 0}}
+@keyframes aero-leap-x{0%,5%{translate:0 0}49%,100%{translate:-10% 0}}
 @keyframes aero-leap-y{
  0%,4%{transform:translateY(130%) rotate(80deg);animation-timing-function:ease-out}
  27%{transform:translateY(-92%) rotate(14deg);animation-timing-function:ease-in}

diff --git a/bucketer/dashboard/static/aero/hero.css b/bucketer/dashboard/static/aero/hero.css
@@ -1,4 +1,4 @@
-/* lane: hero (z 1). Earth globe (glass, high in the right margin, clear of the title, the column and the dolphin leap below), opaque glass-tower skyline with base haze, far + near hills with scroll parallax. Hills span ~40% of the viewport, bottom-anchored; the fixed dock covers the last 62px. */
+/* lane: hero (z 1). Earth globe (glass, high in the right margin, clear of the title, the column and the dolphin leap below), opaque glass-tower skyline with base haze, far + near hills. Hills span ~40% of the viewport, bottom-anchored; the fixed dock covers the last 62px. */
 .hero-scene{position:fixed;inset:0;z-index:1;pointer-events:none;overflow:hidden;filter:var(--aero-grade,saturate(1.2));
  --i-earth:url(img/aero_earth.webp);--i-sky:url(img/aero_skyline.webp);--i-far:url(img/aero_hill_far.webp)}
 .hero-scene,.v3-hillfx,.v3-wx{--i-mid:url(img/aero_hill_mid.webp);--i-near:url(img/aero_hill_near.webp)}
@@ -17,15 +17,5 @@
 .hs-earth{inset:0;border-radius:50%;background:var(--i-earth) no-repeat center/cover}
 .hs-gloss{inset:0;border-radius:50%;background:radial-gradient(ellipse 46% 26% at 34% 18%,rgba(255,255,255,.85),rgba(255,255,255,0) 100%),radial-gradient(circle at 70% 82%,rgba(160,240,255,.5),transparent 42%),radial-gradient(circle,transparent 62%,rgba(255,255,255,.18) 88%,rgba(255,255,255,.55) 100%);box-shadow:inset 0 0 0 2px rgba(255,255,255,.85),inset 0 -6px 18px rgba(0,60,160,.35),inset 0 0 28px rgba(255,255,255,.25)}
 @keyframes hs-float{from{translate:0 0}to{translate:0 9px}}
-@media (prefers-reduced-motion:no-preference){@supports (animation-timeline:scroll()){
-.hs-sk{animation:hs-psk linear both;animation-timeline:scroll(root)}
-.hs-far{animation:hs-pfar linear both;animation-timeline:scroll(root)}
-.hs-mid{animation:hs-pmid linear both;animation-timeline:scroll(root)}
-.hs-near{animation:hs-pnear linear both;animation-timeline:scroll(root)}
-@keyframes hs-psk{to{translate:0 60px}}
-@keyframes hs-pfar{to{translate:0 90px}}
-@keyframes hs-pmid{to{translate:0 140px}}
-@keyframes hs-pnear{to{translate:0 190px}}
-}}
 @media (prefers-reduced-motion:reduce){.hero-scene *{animation:none!important}}
 @media (prefers-contrast:more),(forced-colors:active){.hero-scene{display:none}}

diff --git a/bucketer/dashboard/static/aero/sky.css b/bucketer/dashboard/static/aero/sky.css
@@ -1,4 +1,4 @@
-/* lane: sky (z 0). Cobalt diagonal sky, sun bloom + rays + lens-flare ghosts, aurora, photographic cumulus (two parallax layers), SVG-turbulence cirrus, gull flock (high strip above the heading), rare plane with contrail, star glints, vignette. Also owns the shared tokens (grade, water height, dock height, hill height). */
+/* lane: sky (z 0). Cobalt diagonal sky, sun bloom + rays + lens-flare ghosts, aurora, photographic cumulus (two layers), SVG-turbulence cirrus, gull flock (high strip above the heading), rare plane with contrail, star glints, vignette. Also owns the shared tokens (grade, water height, dock height, hill height). */
 :root{--aero-grade:saturate(1.28) contrast(1.05);--dock:62px;--aw-h:clamp(220px,31vh,340px);--hh:max(38vh,20.5vw)}
 .aero-sky{position:fixed;inset:0;z-index:0;pointer-events:none;overflow:hidden;
  --c1:url(img/aero_cloud_1.webp);--c2:url(img/aero_cloud_2.webp);--c3:url(img/aero_cloud_3.webp);--c4:url(img/aero_cloud_4.webp);--bird:url(img/aero_bird.webp);--plane:url(img/aero_plane.webp)}
@@ -58,11 +58,6 @@
 .as-aurora.a2{animation:as-aur2 14s ease-in-out infinite alternate}
 @keyframes as-aur{from{opacity:.7;translate:-4vw 0}to{opacity:.18;translate:4vw 2vh}}
 @keyframes as-aur2{from{opacity:.12}to{opacity:.62}}
-@supports (animation-timeline:scroll()){
-.as-parfar{animation:as-pfar linear both;animation-timeline:scroll(root)}
-.as-parnear{animation:as-pnear linear both;animation-timeline:scroll(root)}
-@keyframes as-pfar{to{translate:0 -70px}}
-@keyframes as-pnear{to{translate:0 -170px}}
-}}
+}
 @media (prefers-reduced-motion:reduce){.aero-sky *{animation:none!important}.as-plane-a{translate:44vw 0}.as-flock{translate:60vw 0}.as-aurora.a2{opacity:.35}}
 @media (prefers-contrast:more),(forced-colors:active){.aero-sky{display:none}}

diff --git a/bucketer/dashboard/static/sections/fx.js b/bucketer/dashboard/static/sections/fx.js
@@ -1,9 +1,6 @@
-/* fx: mouse parallax + cursor bloom, count-up on stat numbers, optional WebAudio chimes (off by default, speaker button in the taskbar) */
+/* fx: count-up on stat numbers, optional WebAudio chimes (off by default, speaker button in the taskbar) */
 {const root=document.documentElement,calm=matchMedia("(prefers-reduced-motion:reduce)").matches;
- if(!calm){let mx=0,my=0,raf=0;const bloom=document.createElement("div");bloom.className="v3-bloom";document.body.appendChild(bloom);
-  addEventListener("pointermove",e=>{mx=e.clientX/innerWidth*2-1;my=e.clientY/innerHeight*2-1;
-   if(!raf)raf=requestAnimationFrame(()=>{raf=0;root.style.setProperty("--mx",mx.toFixed(3));root.style.setProperty("--my",my.toFixed(3));bloom.style.transform=`translate(${e.clientX}px,${e.clientY}px)`;bloom.style.opacity=.55})},{passive:true});
-  document.addEventListener("pointerleave",()=>{bloom.style.opacity=0});
+ if(!calm){
   document.querySelectorAll(".stat b").forEach(el=>{const m=el.textContent.match(/^(\D*)([\d,]+)(\D*)$/);if(!m)return;
    const end=+m[2].replace(/,/g,""),t0=performance.now(),dur=900;if(!(end>0))return;
    const tick=t=>{const k=Math.min(1,(t-t0)/dur),v=Math.round(end*(1-Math.pow(1-k,3)));el.textContent=m[1]+v.toLocaleString()+m[3];if(k<1)requestAnimationFrame(tick)};requestAnimationFrame(tick)})}

diff --git a/bucketer/dashboard/static/aero/ui.css b/bucketer/dashboard/static/aero/ui.css
@@ -93,7 +93,7 @@ div.more{margin:0}
 .thumbs img,.thumbs .ph,.cv img,.cv .ph{flex:none;width:48px;height:48px;border-radius:10px;object-fit:cover;background:rgba(255,255,255,.6);border:1px solid #fff;box-shadow:0 2px 5px rgba(20,100,160,.25)}
 .ph{display:inline-flex;align-items:center;justify-content:center;color:var(--muted);font-size:18px}
 .cv{width:44px;padding-right:0}.cv img,.cv .ph{width:40px;height:40px;border-radius:8px}
-@media (hover:hover) and (prefers-reduced-motion:no-preference){.card,.stat{transition:transform .2s,box-shadow .2s}.card:hover,.stat:hover{transform:translateY(-2px);box-shadow:0 12px 22px rgba(0,0,0,.14),inset 0 1px 0 rgba(255,255,255,.9)}}
+@media (hover:hover) and (prefers-reduced-motion:no-preference){.card,.stat{transition:box-shadow .2s}.card:hover,.stat:hover{box-shadow:0 12px 22px rgba(0,0,0,.14),inset 0 1px 0 rgba(255,255,255,.9)}}
 /* a lone last card fills its row */
 @media (min-width:1000px){.cards>.card:last-child:nth-child(3n+1){grid-column:1/-1}.cards>.card:last-child:nth-child(3n+2){grid-column:span 2}}
 @media (max-width:999px) and (min-width:641px){.cards{grid-template-columns:repeat(2,minmax(0,1fr))}.cards>.card:last-child:nth-child(odd){grid-column:1/-1}}

diff --git a/bucketer/dashboard/static/img/CREDITS.md b/bucketer/dashboard/static/img/CREDITS.md
@@ -4,7 +4,7 @@ The dashboard scenery is photographic cutouts from Wikimedia Commons (public dom
 
 | File here | Source file | Author | Licence | Processing |
 |---|---|---|---|---|
-| `aero_dolphin_leap.webp` | HIHWNMS - Spinner Dolphin (28354954591).jpg (dolphin only) | NOAA National Marine Sanctuaries | Public domain | rembg, gradient-mapped to saturated blue |
+| `aero_dolphin_leap.webp` | HIHWNMS - Spinner Dolphin (28354954591).jpg (dolphin only) | NOAA National Marine Sanctuaries | Public domain | rembg (isnet-general-use), alpha cleaned, mild natural grade (lifted shadows, slight cool tint), no blue gradient map |
 | `aero_clownfish_big.webp` | Ocellaris clownfish bright.jpg | Bruxton | CC0 | rembg, coral removed, stripes whitened |
 | `aero_moorish_idol.webp` | Zanclus cornutus 387908169.jpg (left fish) | Andra Waagmeester | CC0 | rembg, hue-shifted teal to yellow, stripes darkened |
 | `aero_goldfish.webp` | Aquarium tropical de Pierrefitte-Nestalas 03082018 Carassius auratus Lionhead goldfish 2.jpg | Vassil | CC0 1.0 | rembg, mild grade |
@@ -17,7 +17,5 @@ The dashboard scenery is photographic cutouts from Wikimedia Commons (public dom
 | `aero_earth.webp` | Blue Marble Western Hemisphere.jpg | NASA / Reto Stöckli (Terra MODIS) | Public domain | circular mask, shadow lift, saturation boost |
 | `aero_butterfly.webp` | Monarch Butterfly.(Danaus plexippus) (14256022010).jpg | Bernard Spragg | CC0 | rembg, saturation boost |
 | `aero_bird.webp` | Black Tern flying (7402338502).jpg (a tern, not a gull) | U.S. Fish and Wildlife Service, Northeast Region | Public domain | rembg |
-| `aero_grass_tuft.webp` | none (generated) | n/a | n/a | generated procedurally (numpy/scipy/Pillow), no third-party imagery |
-| `aero_splash.webp` | generated procedurally (numpy/scipy/Pillow metaball + normal-map shading) | n/a | n/a, no third-party imagery | none |
-| `aero_splash_lip.webp` | generated procedurally (numpy/scipy/Pillow metaball + normal-map shading) | n/a | n/a, no third-party imagery | none |
-| `aero_splash_drops.webp` | generated procedurally (numpy/scipy/Pillow metaball + normal-map shading) | n/a | n/a, no third-party imagery | none |
+| `aero_monitor.webp` | Computer monitor remix transparent.png (derivative of Computer_monitor.jpg); screen replaced by a warped crop of Spring time in the Hill country brings on wild flowers and green grass. (24486794213).jpg | Zzubnik, derivative by AGreuet (monitor); USDA NRCS Texas (landscape) | Public domain / Public domain | shell recoloured with a navy-cobalt-aqua-white luminance ramp to match the site; landscape greens hue-shifted to lime, red flowers to yellow; perspective-warped onto the panel with inner shadow and glare; 0.45x resize |
+| `aero_monitor_water.webp` | Wave splash in Brofjorden at Lahälla 3.jpg | W.carter | CC0 | white spray keyed by whiteness (min channel, low saturation) so rocks and sea drop out, cropped to the eruption, rotated 22 degrees about its base, tinted slightly aqua over a soft cyan underlay, placed at the screen's bottom centre |

diff --git a/bucketer/dashboard/static/img/MANIFEST.md b/bucketer/dashboard/static/img/MANIFEST.md
@@ -17,12 +17,10 @@ All WebP with alpha unless noted. Sizes are pixels (w x h).
 | aero_earth.webp | 600x600 | Blue Marble globe, circular alpha | add gloss overlay in CSS |
 | aero_butterfly.webp | 700x502 | monarch, side view facing right | |
 | aero_bird.webp | 560x540 | black tern in flight, wings spread, diving left | |
-| aero_dolphin_leap.webp | 700x450 | spinner dolphin leaping, blue gradient-mapped (same orientation as before) | aspect 1.56 (was 1.57) |
+| aero_dolphin_leap.webp | 700x450 | spinner dolphin leaping, natural slate-grey grade (no gradient map; same orientation as before) | aspect 1.56 |
 | aero_clownfish_big.webp | 700x413 | clownfish facing left | aspect 1.69 (was 1.71) |
 | aero_moorish_idol.webp | 700x538 | Moorish idol, long dorsal filament now included, yellow | aspect 1.30 (was 1.17, old one cropped the filament) |
 | aero_goldfish.webp | 700x521 | red-cap goldfish, long fins | aspect 1.34 (was 1.35) |
 
-| aero_grass_tuft.webp | 900x500 | ~120 curved grass blades with rim light and a few daisies, transparent | bottom-align; foreground corner tuft |
-| aero_splash.webp | 900x1000 | water burst erupting upward, jets, thin sheets, spray; transparent | bottom-centre (x~460) is the emerging point; bottom edge is cut straight, hide behind bezel |
-| aero_splash_lip.webp | 900x260 | water slopping over a flat edge, lumpy lip and 6 drips; transparent | top edge merges into the splash above; align under the splash base |
-| aero_splash_drops.webp | 600x600 | ~25 separate glossy droplets (r 3-26px, some elongated); transparent | place/animate as a spray layer |
+| aero_monitor.webp | 780x795 | photo of a flat-panel monitor (3/4 view), shell recoloured to the site blues, landscape photo on screen | stacks exactly with aero_monitor_water.webp; screen quad on canvas about (123,276) (542,271) (549,619) (131,638) |
+| aero_monitor_water.webp | 780x795 | real wave-spray photo keyed to white water, erupting from the screen's bottom centre up and to the right | same canvas as aero_monitor.webp; the fish goes between the two |
